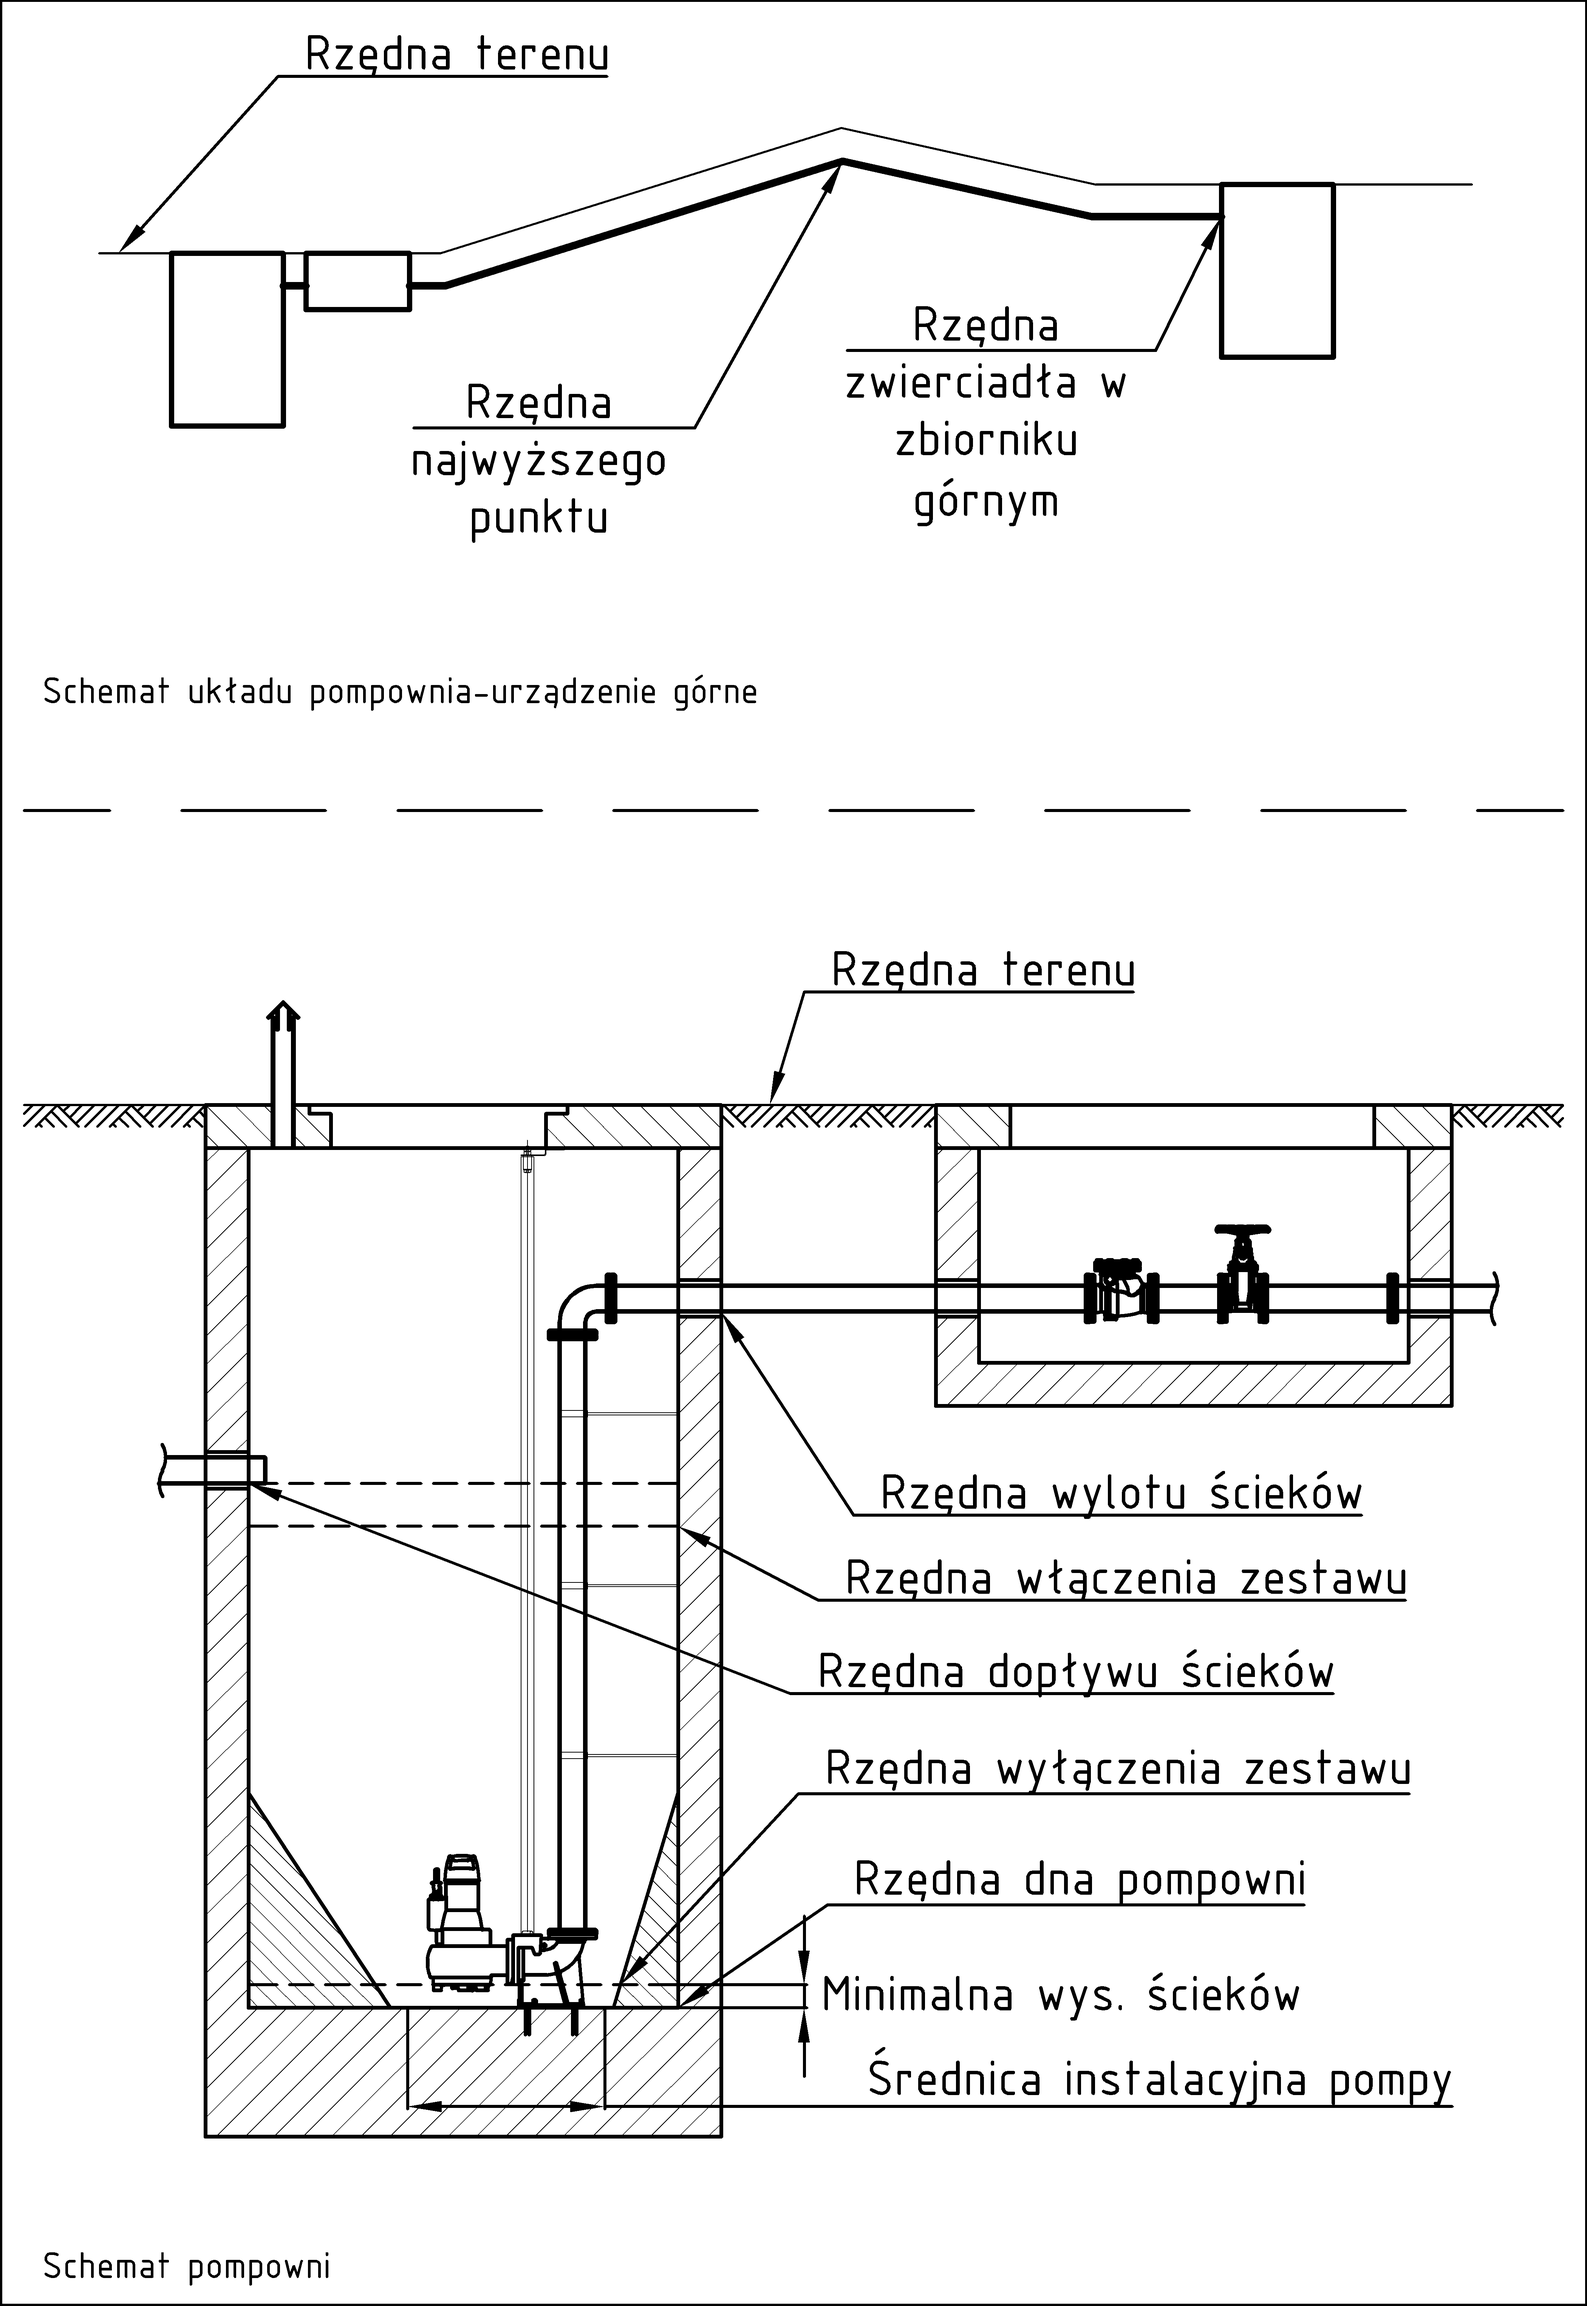
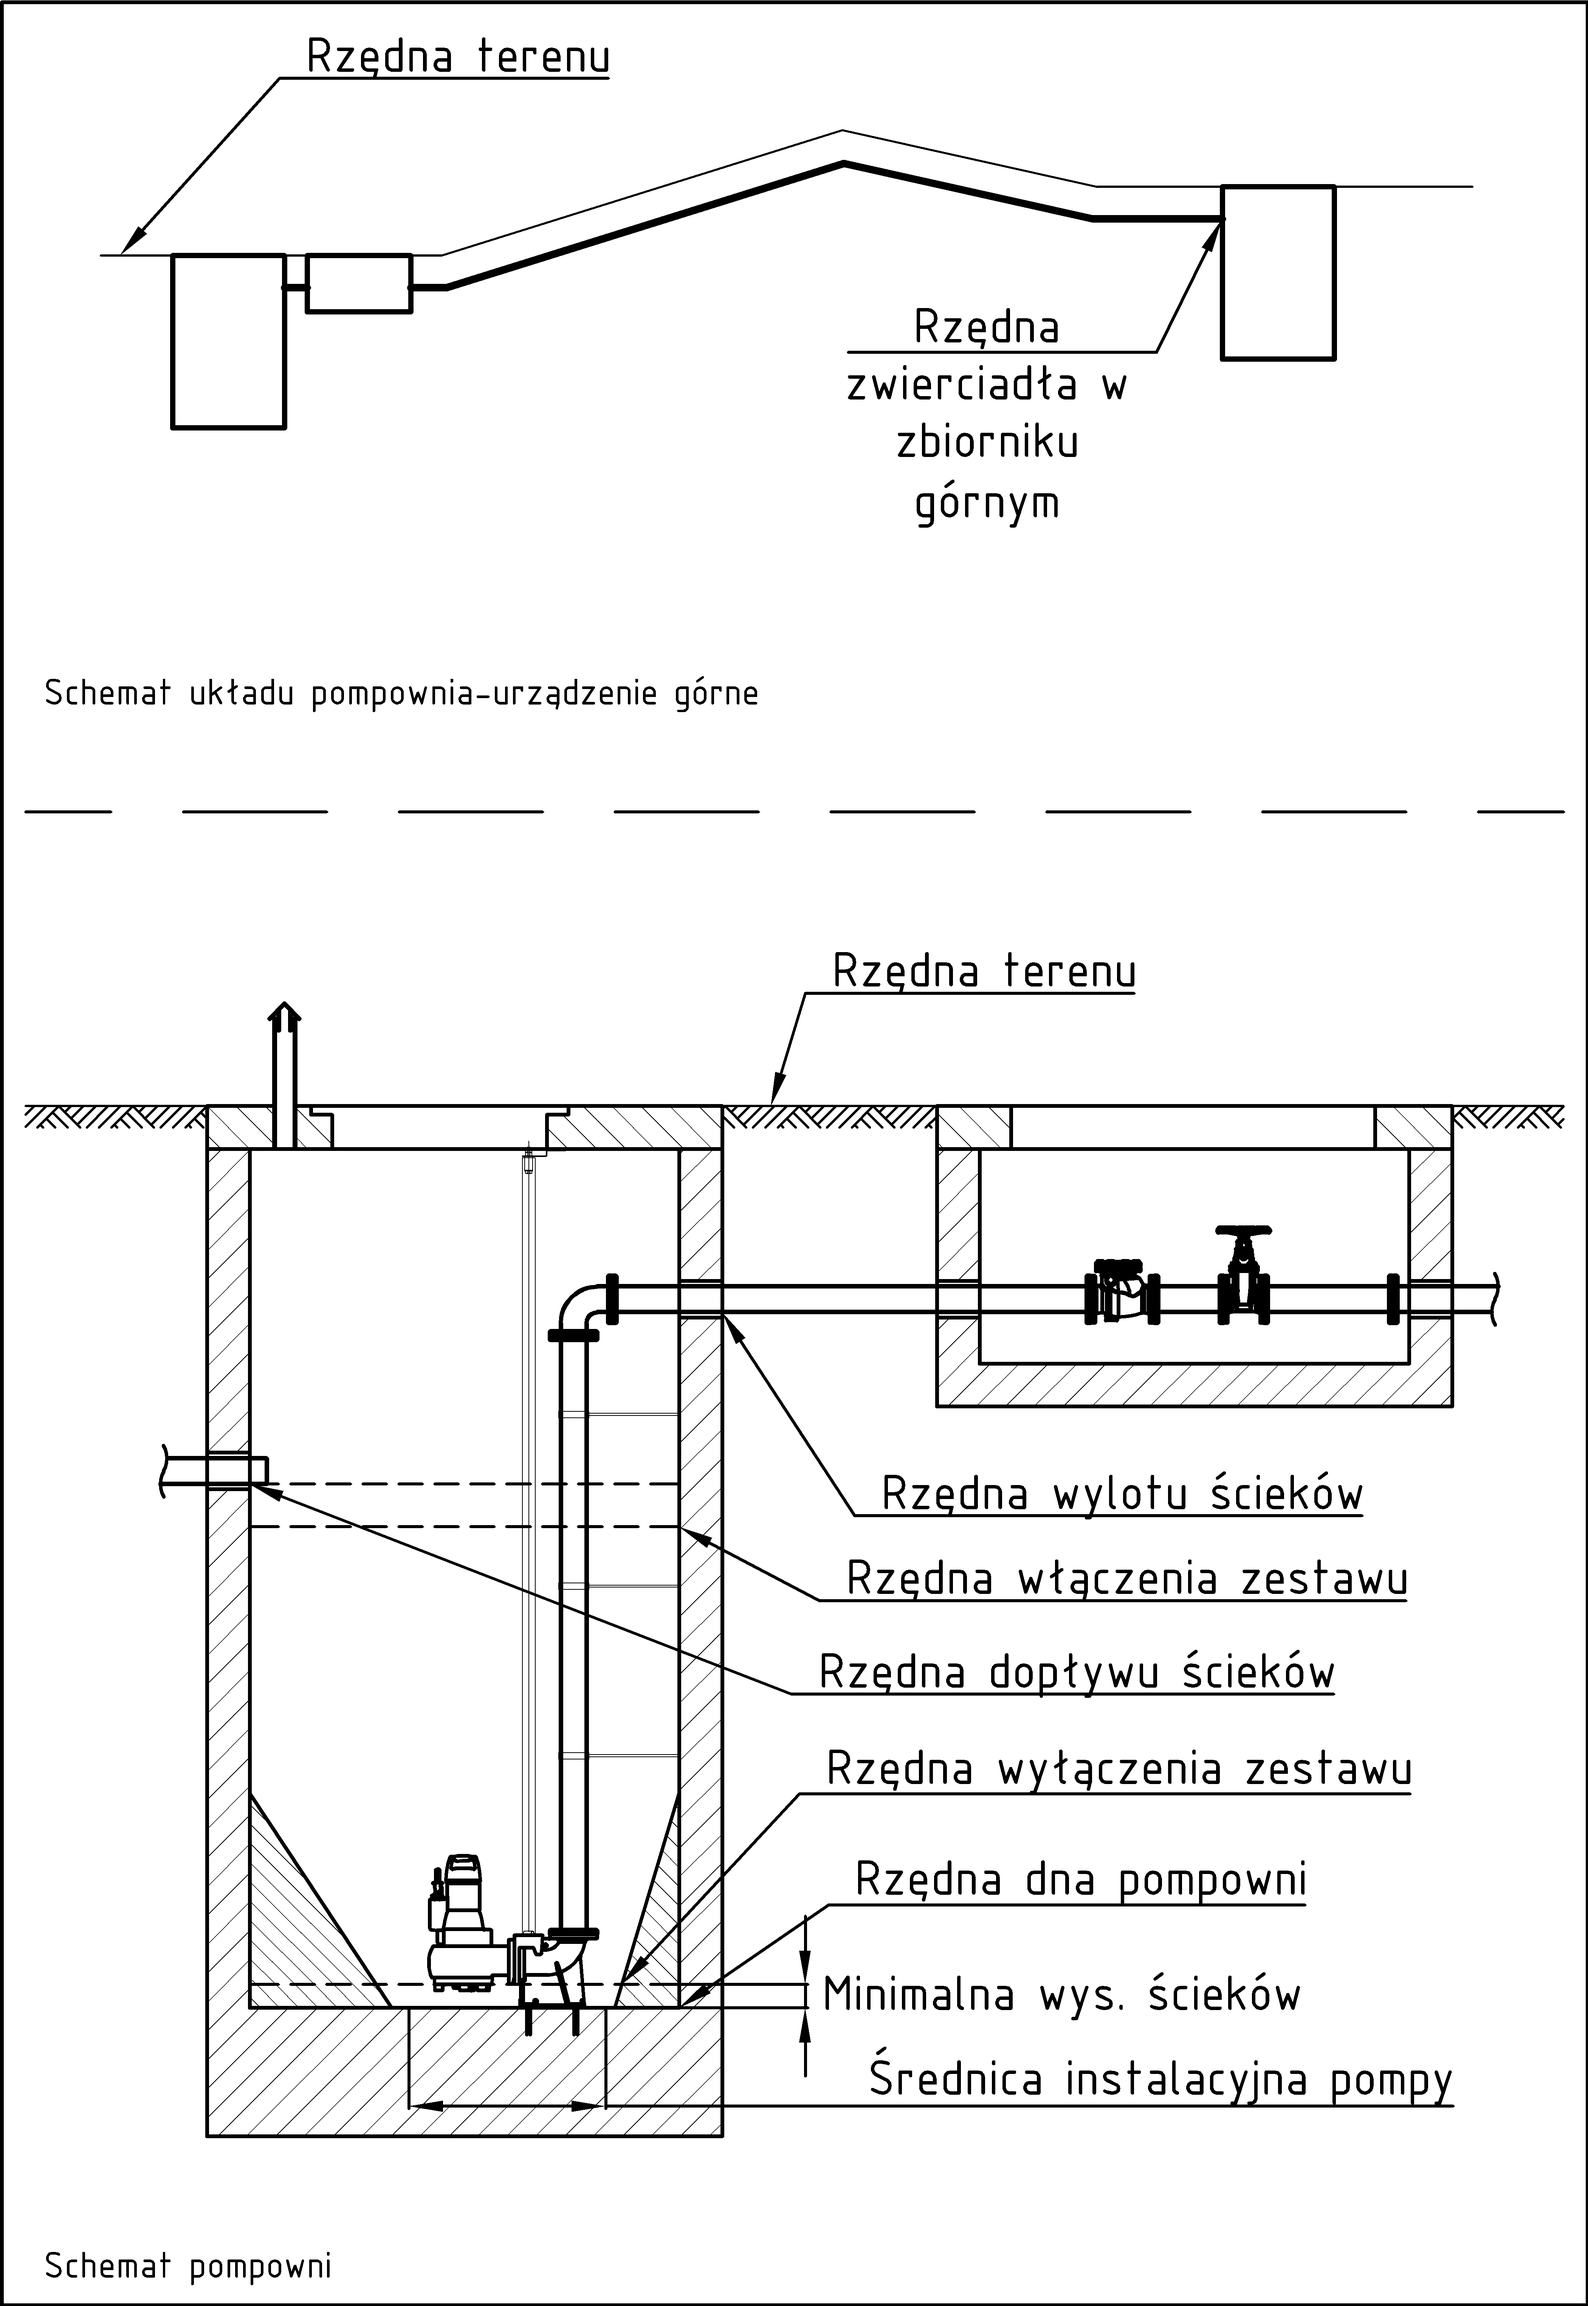
highest point removed

diff --git a/pompa/view/dataframe.py b/pompa/view/dataframe.py
@@ -102,10 +102,10 @@ class Dataframe(tk.Frame):
                                     text='Rzędna dna pompowni',
                                     # wraplength=120,
                                     justify=tk.LEFT)
-        ord_high_label = tk.Label(ord_frame,
-                                  text='Rzędna najwyższego punktu',
-                                  # wraplength=120,
-                                  justify=tk.LEFT)
+        # ord_high_label = tk.Label(ord_frame,
+        #                           text='Rzędna najwyższego punktu',
+        #                           # wraplength=120,
+        #                           justify=tk.LEFT)
         ord_end_label = tk.Label(ord_frame,
                                  text='Rzędna zwierciadła w zb. górnym',
                                  wraplength=160,
@@ -137,8 +137,8 @@ class Dataframe(tk.Frame):
                                       ord_frame, width=5)
         self.ord_bottom_entry = vw.Entry(self.view.vars['ord_bottom'],
                                          ord_frame, width=5)
-        self.ord_high_entry = vw.Entry(self.view.vars['ord_highest_point'],
-                                       ord_frame, width=5)
+        # self.ord_high_entry = vw.Entry(self.view.vars['ord_highest_point'],
+        #                                ord_frame, width=5)
         self.ord_end_entry = vw.Entry(self.view.vars['ord_upper_level'],
                                       ord_frame, width=5)
         self.alarm_h_entry = vw.Entry(self.view.vars['reserve_height'],
@@ -148,7 +148,7 @@ class Dataframe(tk.Frame):
         ord_inl_u_label = tk.Label(ord_frame, text='m n.p.m.', pady=3)
         ord_out_u_label = tk.Label(ord_frame, text='m n.p.m.', pady=3)
         ord_bottom_u_label = tk.Label(ord_frame, text='m n.p.m.', pady=3)
-        ord_high_u_label = tk.Label(ord_frame, text='m n.p.m.', pady=3)
+        # ord_high_u_label = tk.Label(ord_frame, text='m n.p.m.', pady=3)
         ord_end_u_label = tk.Label(ord_frame, text='m n.p.m.', pady=3)
         alarm_h_u_label = tk.Label(ord_frame, text='m', pady=3)
 
@@ -156,7 +156,7 @@ class Dataframe(tk.Frame):
         ord_inl_label.grid(row=1, column=0, sticky=tk.W)
         ord_out_label.grid(row=2, column=0, sticky=tk.W)
         ord_bottom_label.grid(row=3, column=0, sticky=tk.W)
-        ord_high_label.grid(row=4, column=0, sticky=tk.W)
+        # ord_high_label.grid(row=4, column=0, sticky=tk.W)
         ord_end_label.grid(row=5, column=0, sticky=tk.W)
         alarm_h_label.grid(row=6, column=0, sticky=tk.W)
 
@@ -172,7 +172,7 @@ class Dataframe(tk.Frame):
         self.ord_inl_entry.grid(row=1, column=2)
         self.ord_out_entry.grid(row=2, column=2)
         self.ord_bottom_entry.grid(row=3, column=2)
-        self.ord_high_entry.grid(row=4, column=2)
+        # self.ord_high_entry.grid(row=4, column=2)
         self.ord_end_entry.grid(row=5, column=2)
         self.alarm_h_entry.grid(row=6, column=2)
 
@@ -180,7 +180,7 @@ class Dataframe(tk.Frame):
         ord_inl_u_label.grid(row=1, column=3, sticky=tk.W)
         ord_out_u_label.grid(row=2, column=3, sticky=tk.W)
         ord_bottom_u_label.grid(row=3, column=3, sticky=tk.W)
-        ord_high_u_label.grid(row=4, column=3, sticky=tk.W)
+        # ord_high_u_label.grid(row=4, column=3, sticky=tk.W)
         ord_end_u_label.grid(row=5, column=3, sticky=tk.W)
         alarm_h_u_label.grid(row=6, column=3, sticky=tk.W)
 

diff --git a/pompa/view/results.py b/pompa/view/results.py
@@ -99,7 +99,7 @@ class ResultsWindow(tk.Toplevel):
         content += f'Rzędna dopływu ścieków................{station.hydr_cond.ord_inlet.get():7}    [m]\n'
         content += 'Rzędna wylotu ścieków /przejście\n'
         content += f'osi rury przez ścianę pompowni/.......{station.hydr_cond.ord_outlet.get():7}    [m]\n'
-        content += f'Rzędna najwyższego pkt. na trasie.....{station.hydr_cond.ord_highest_point.get():7}    [m]\n'
+        # content += f'Rzędna najwyższego pkt. na trasie.....{station.hydr_cond.ord_highest_point.get():7}    [m]\n'
         content += f'Rzędna zwierciadła w zbiorniku górnym.{station.hydr_cond.ord_upper_level.get():7}    [m]\n'
         content += f'Min. wysokość ścieków w  pompowni.....{station.pump_type.suction_level.get():7}    ' \
                    f'[m]\n'

diff --git a/pompa/view/gui_tk.py b/pompa/view/gui_tk.py
@@ -160,7 +160,7 @@ class View(tk.Tk):
         dictionary['ord_inlet'] = self.gui.dataframe.ord_inl_entry
         dictionary['ord_outlet'] = self.gui.dataframe.ord_out_entry
         dictionary['ord_bottom'] = self.gui.dataframe.ord_bottom_entry
-        dictionary['ord_highest_point'] = self.gui.dataframe.ord_high_entry
+        # dictionary['ord_highest_point'] = self.gui.dataframe.ord_high_entry
         dictionary['ord_upper_level'] = self.gui.dataframe.ord_end_entry
         dictionary['reserve_height'] = self.gui.dataframe.alarm_h_entry
         dictionary['inflow_min'] = self.gui.dataframe.inflow_min_entry

diff --git a/pompa/models/figures_data.py b/pompa/models/figures_data.py
@@ -116,8 +116,7 @@ class PipeChartData:
 
     def geom_h_figure_ready(self):
         rules = [
-            self.hydr_cond.ord_upper_level.value <= self.hydr_cond.ord_highest_point.value,
-            self.hydr_cond.ord_outlet < self.hydr_cond.ord_highest_point
+            self.hydr_cond.ord_outlet < self.hydr_cond.ord_upper_level
         ]
         return all(rules)
 
